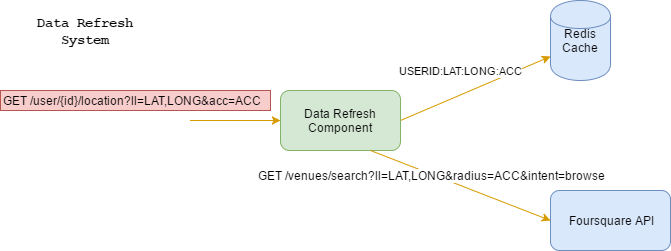
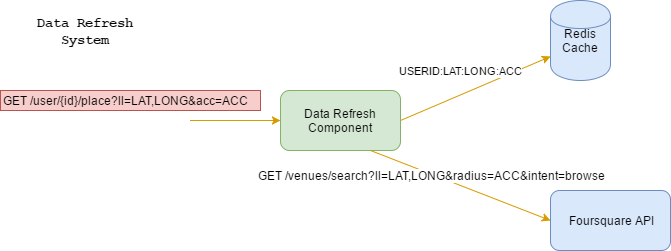
Completed design doc of the refresh data system

Changed region(s): [[0.1192, 0.3625, 0.4173, 0.4462]]

diff --git a/docs/DataRefreshSystem.md b/docs/DataRefreshSystem.md
@@ -22,11 +22,11 @@ The data refresh component exposes an endpoint that allows, for a given user, to
 The endpoint accepts GET requests with the following structure:
 
 ```
-GET /user/{id}/location?ll=LAT,LONG@acc=ACC
+GET /user/{id}/place?ll=LAT,LONG@acc=ACC
 ```
 
-and returns a [Venue](https://developer.foursquare.com/docs/responses/venue) response body with HTTP status 200
-in case of successful match.
+and returns a Place json object (modelled as a [Venue](https://developer.foursquare.com/docs/responses/venue)) 
+as response body with HTTP status 200 in case of successful match.
 In case of error the service endpoint returns a HTTP 500 status and the message body contains a description
 of the error message.
 
@@ -37,22 +37,32 @@ userid:lat:lang:acc
  
 Redis default strategy (snapshots) is used to persist data on disk.  
 
-Each key pointing to a _visited_place_ is associated with an TTL value of 1 month after which the key will
+Each key pointing to a _visited_place_ is associated with an TTL value of 30 days after which the key will
 be evicted.
 
 
-The Data refresh component is a Spring Boot application.
-The location endpoint is defined in the LocationInfoController which is a Spring Rest Controller.
+The Data refresh component is a Spring Boot application whose structure can be described by the following
+class diagram:
 
-The controller is concerned only with retrieving the query string and creating the response body.
+![Class Diagram](class-diagram.png)
 
-The controller delegates the actual retrieval logic to the LocationInfoService.
+The location endpoint is defined in the PlaceController which is a Spring Rest Controller.
 
-Location object and venue object
+The controller is concerned only with retrieving of the query string and creating the response body.
 
-A FoursquareVenueService is provided as implementation of the LocationInfoService
+The controller delegates the actual retrieval logic to the `PlaceService` which accepts a `Location` value object 
+containing the user id, the latitude, the longitude and the accuracy and returns a `Place` object to be serialized 
+in the response body as a JSON string.
 
-The FoursquareVenueService implements the logic to access the foursquare API (via RestTemplate).
+A `FoursquareVenueService` is provided as an implementation of the `PlaceService`
 
-Spring cache is used to abstract the actual cache implementation. The lookup method is annotated
-with 
+The `FoursquareVenueService` implements the logic to access the Foursquare API (via RestTemplate).
+
+Spring cache is used to abstract the actual cache implementation. 
+The `lookup` method is annotated with `@Cacheable` annotation. The name of the cache is `places`.
+The `Location` object shall be used as cache key and therefore shall implement valid `equal` and `hashCode` methods.
+
+[Redisson](https://github.com/redisson/redisson/wiki/14.-Integration%20with%20frameworks#142-spring-cache) is used as
+ Spring Cache manager implementation. In the cache manager implementation a TTL of 30 days shall be defined.
+ 
+ This will make sure that each cache entry is defined in Redis with the right TTL value. 
